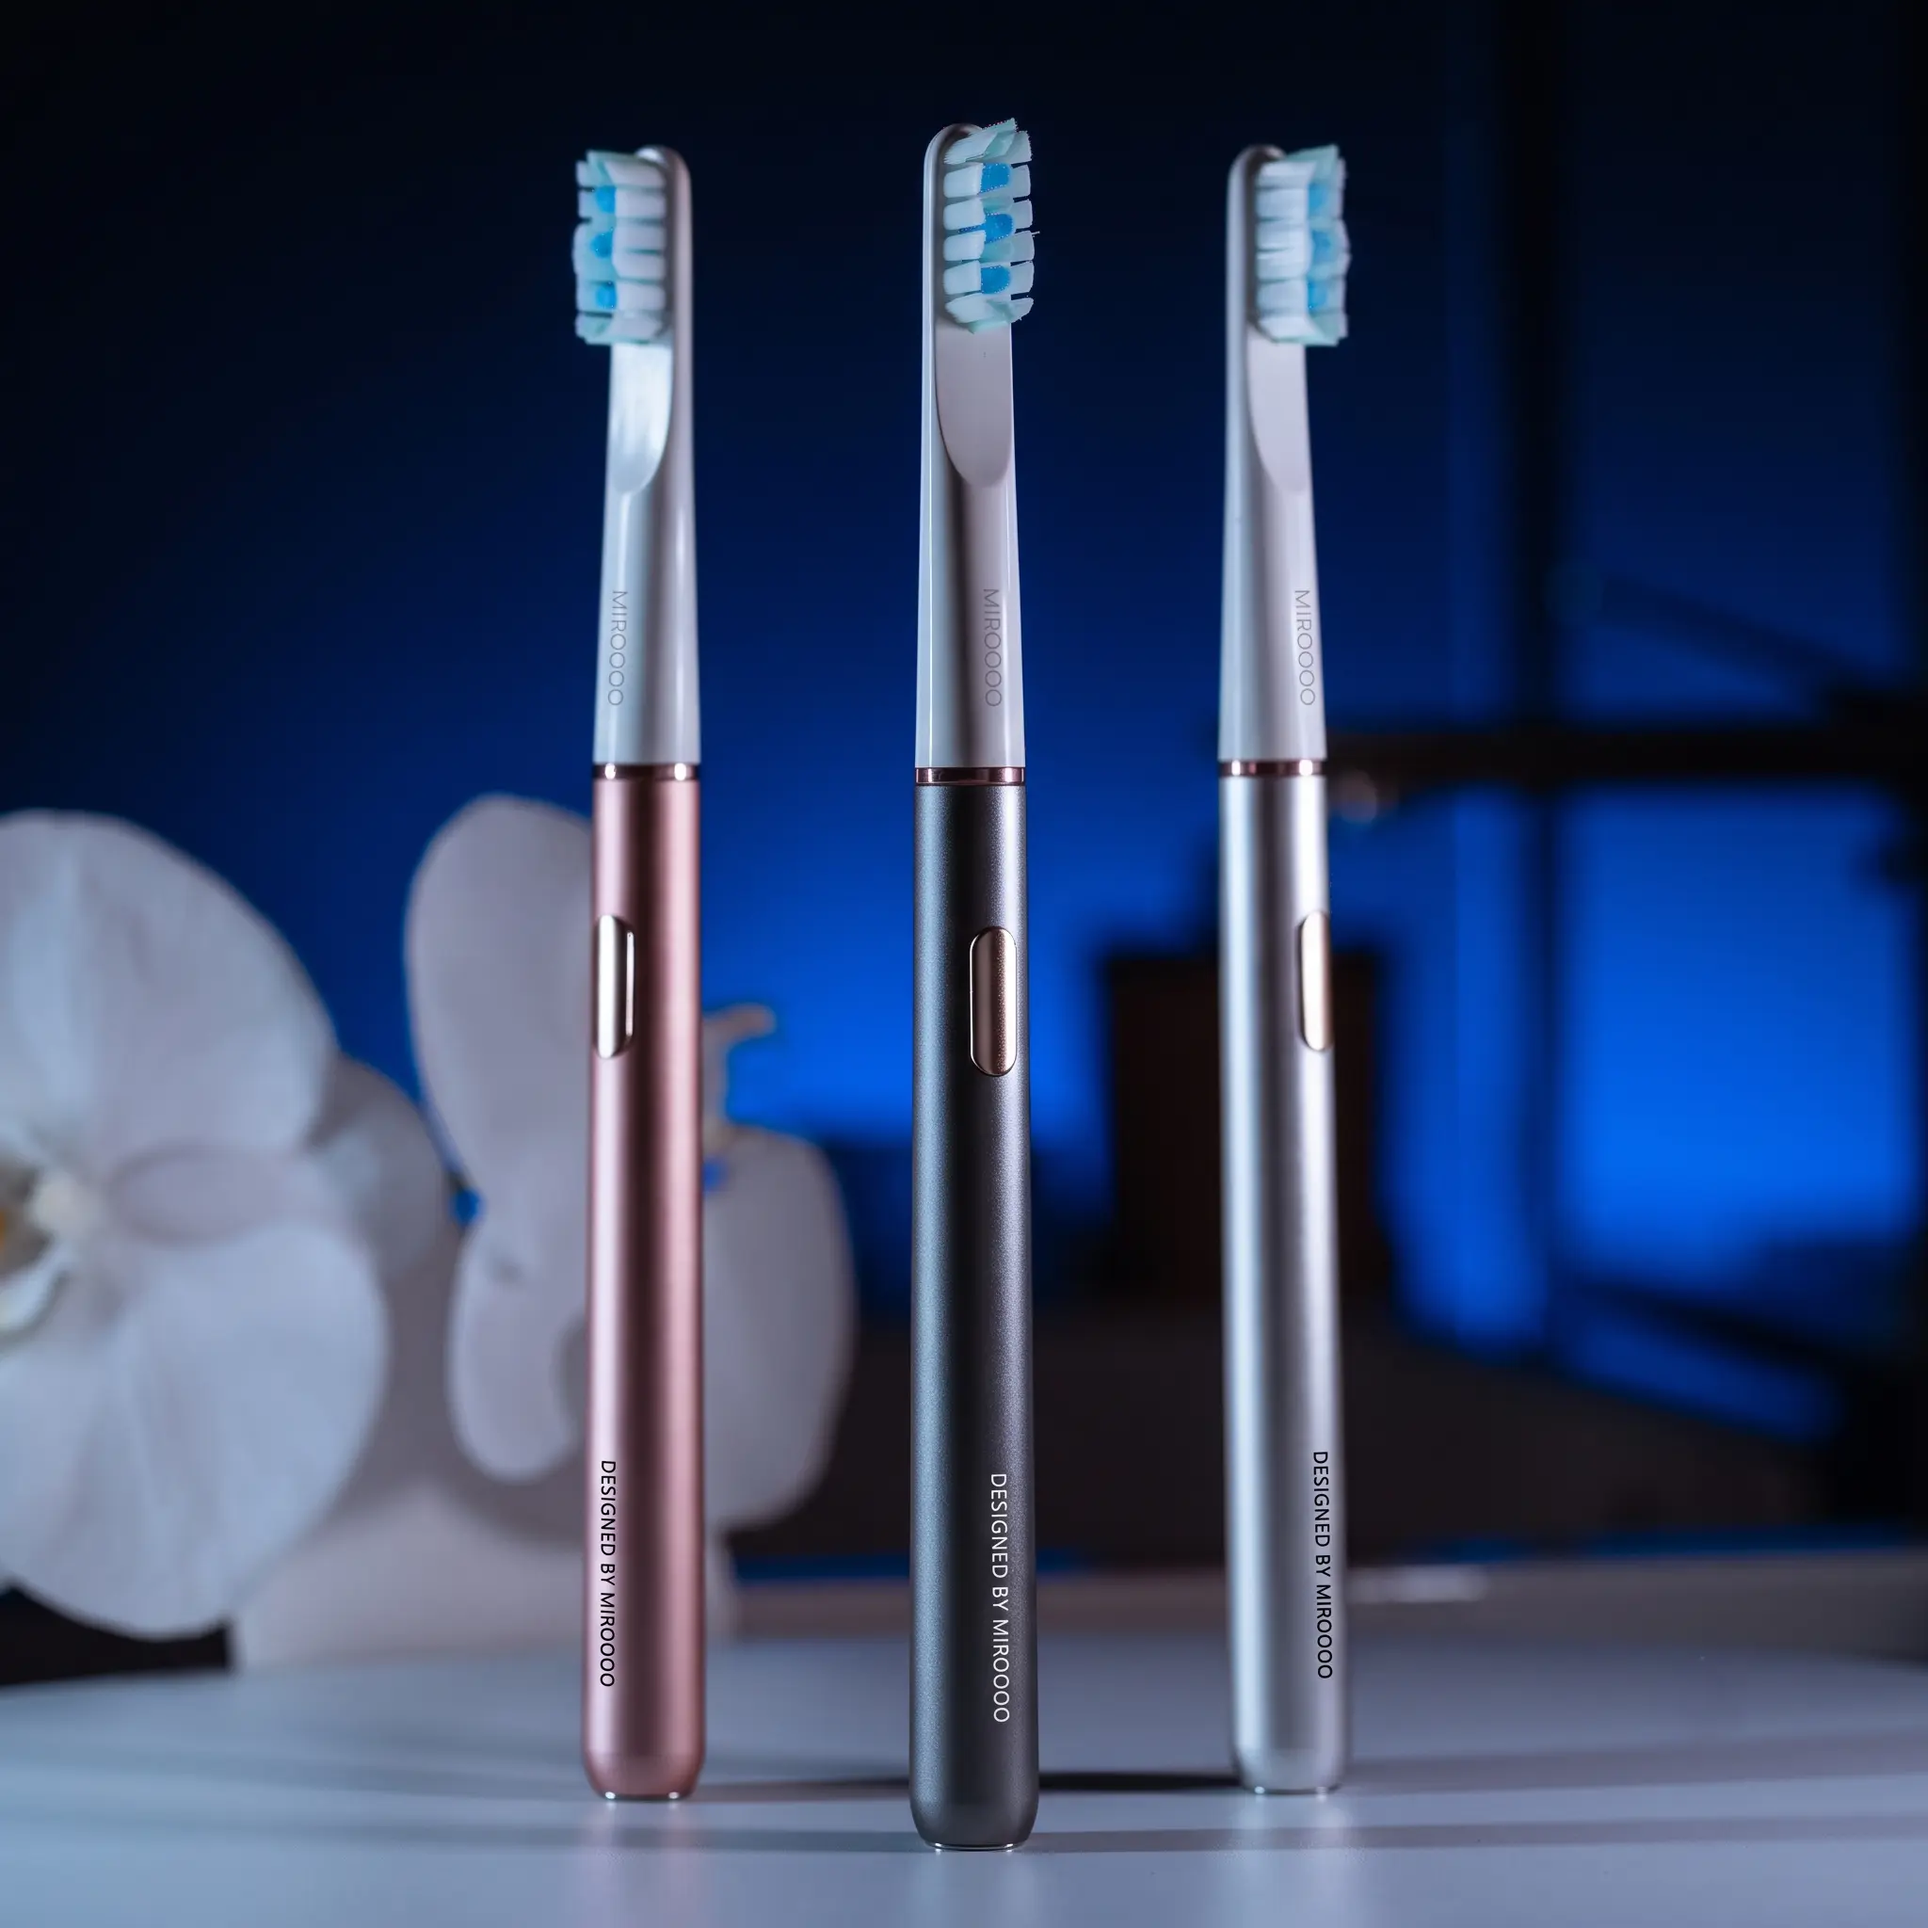
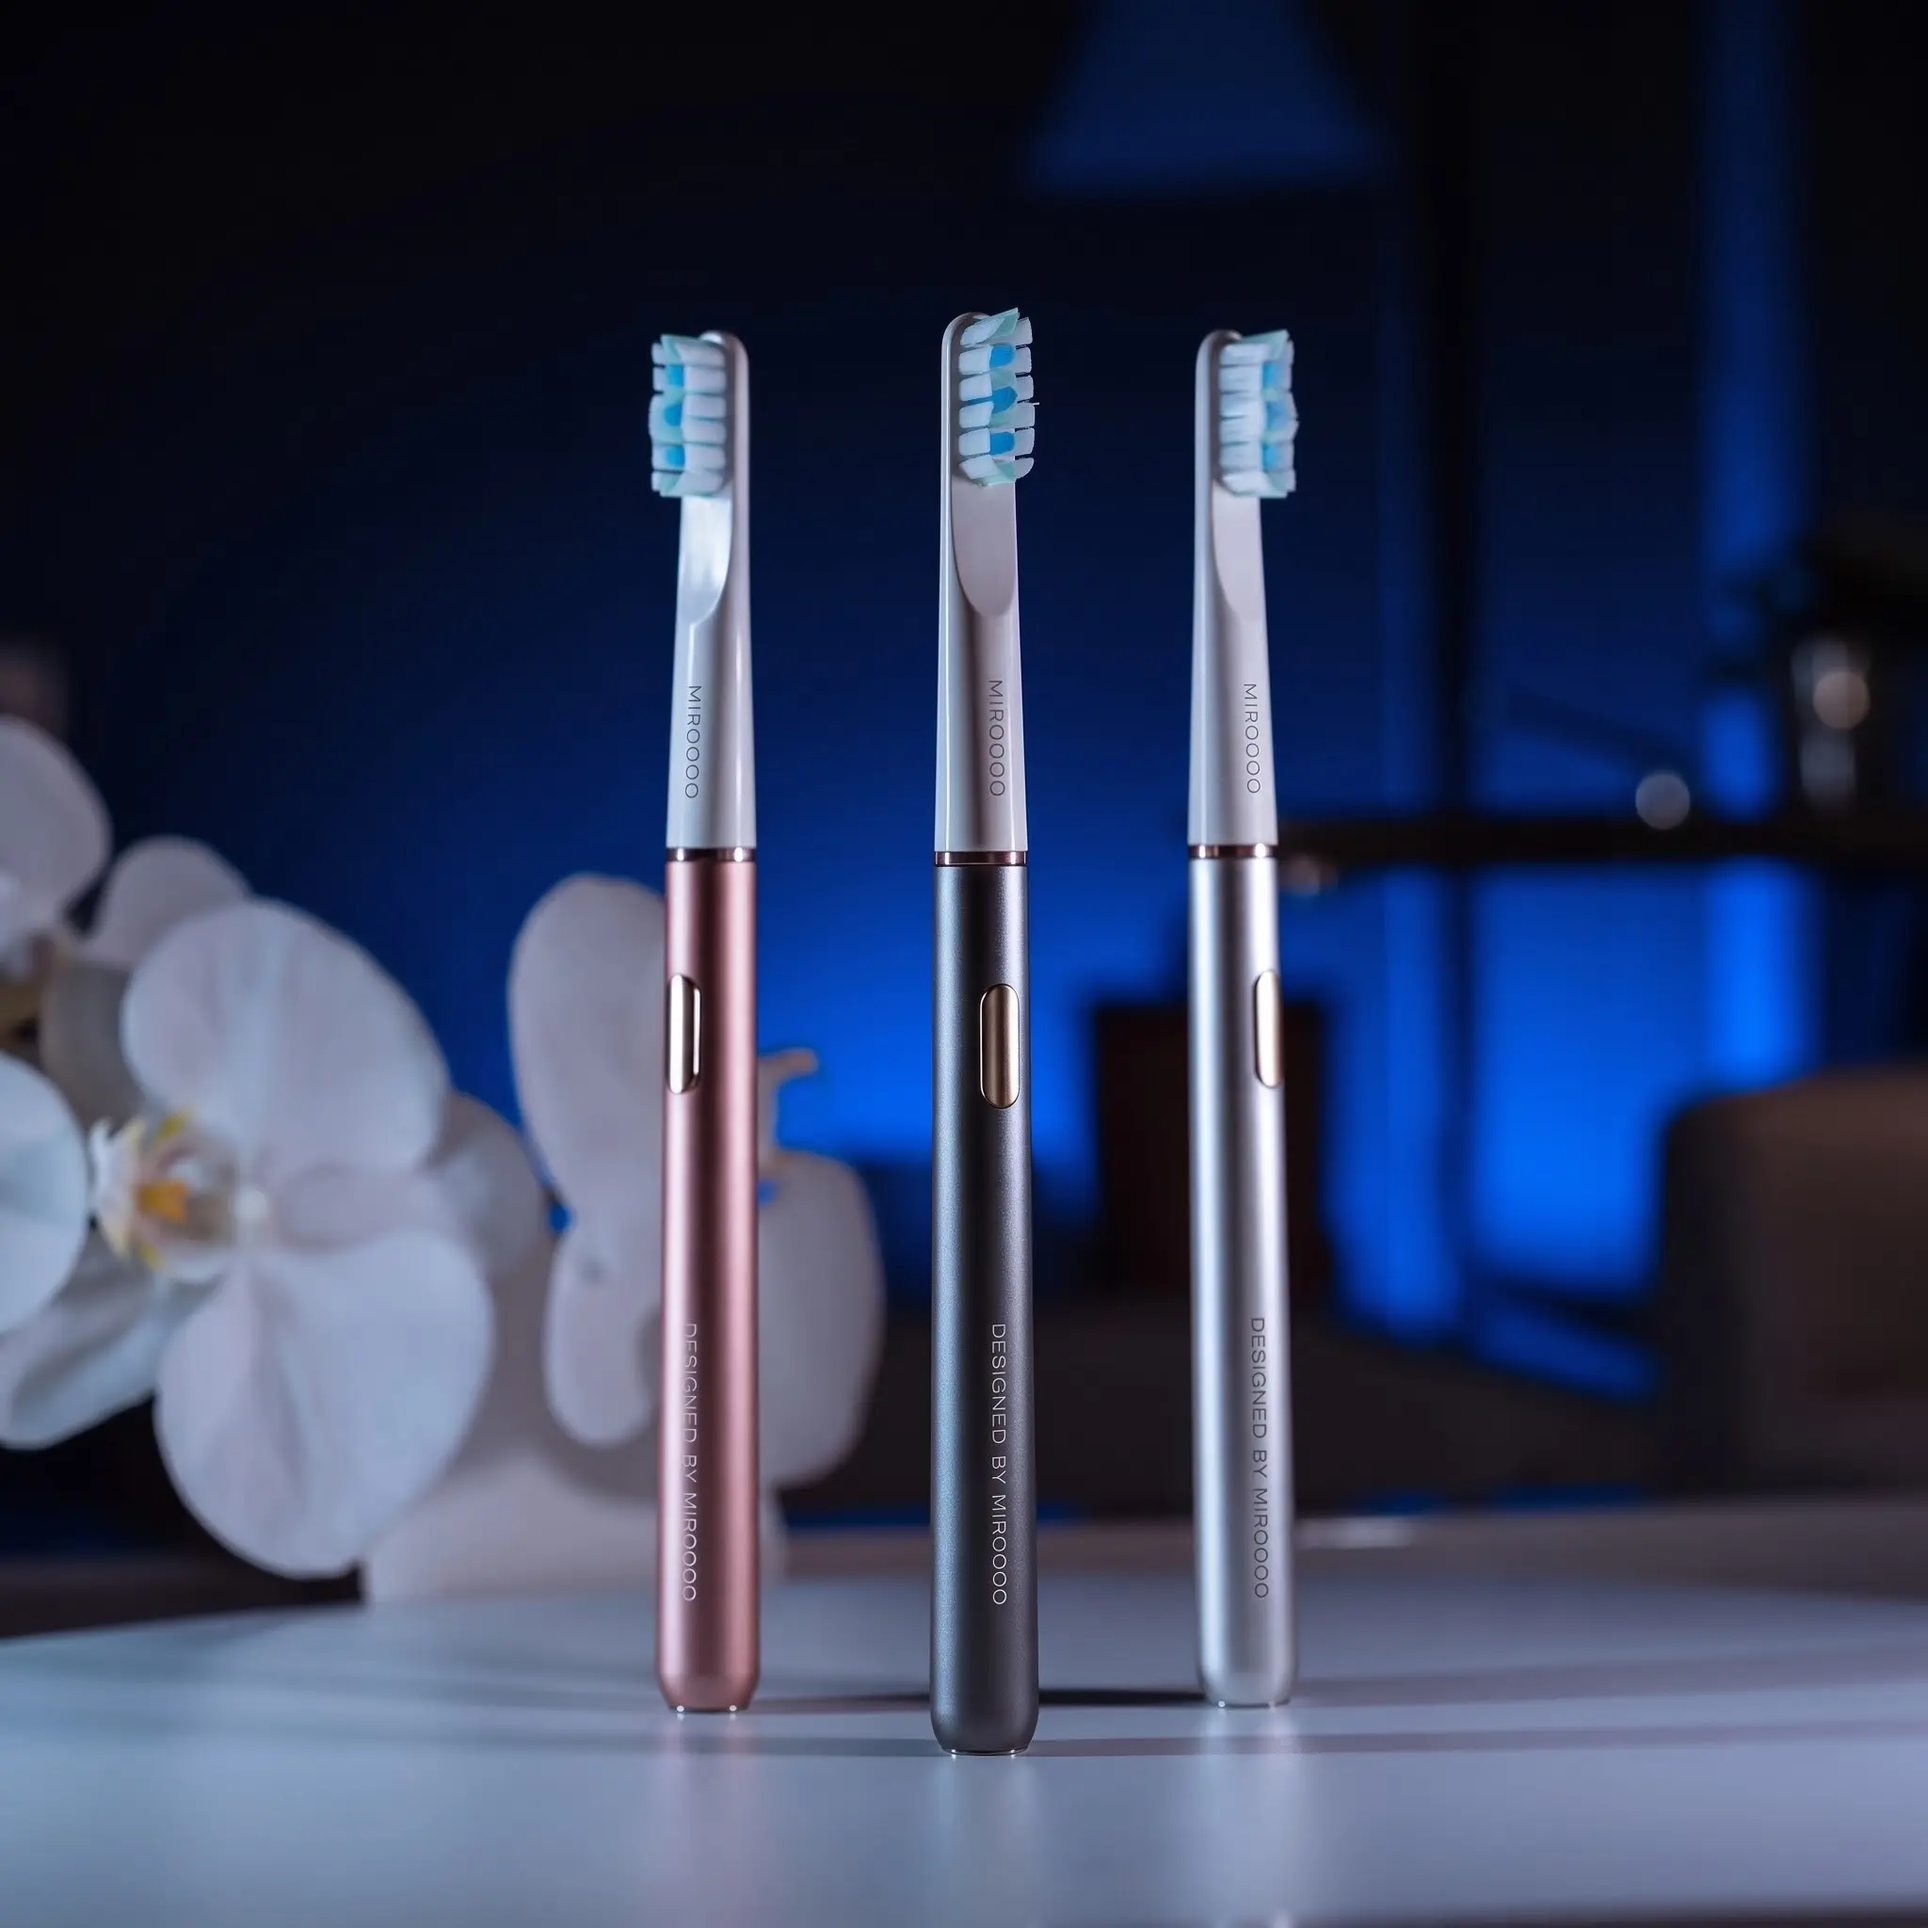
feat: update Miroooo Brush X #1 winner image preserving SEO asset name

diff --git a/CONTEXT.md b/CONTEXT.md
@@ -10811,6 +10811,47 @@ ext/image unconfigured host 500 error that was crashing the page.
 - **Commit, Push, & Deployment Status**:
   - Clean code committed and pushed to GitHub `origin/main` per explicit user instruction.
 
+---
+
+## Session Log: 16 October 2026 - Miroooo Brush X #1 Winner Image Asset Replacement (Preserving SEO Nomenclature)
+
+- **User Intent & Scope**:
+  - Replace the current #1 image of Miroooo Brush X on all brush pages with the user-provided image:
+    `E:\1st YEAR DTU\New folder\miroooo_images\edited with miroooo\Mirooo x compressed\284410181_1792123030456804.jpg.webp`.
+  - Maintain the exact current SEO/GEO standardized filename (`miroooo-brush-x-sonic-electric-toothbrush-rose-gold-space-grey-silver.webp`) to avoid broken links or unnecessary route/data refactors.
+  - Delete/replace the older image content in place.
+  - Verify across all toothbrush routes and pages in `trustpilotreview-shop`.
+  - If all checks pass cleanly, push clean code to GitHub `origin/main`.
+  - Strict scope boundary: Work strictly within `trustpilotreview-shop`. Do not touch LED masks, hair dryers, grounding sheets, pillows, or hearing aids pages. Zero modifications to outside repositories.
+
+- **Starting & Ending Git State**:
+  - Starting: `main` at `1f46a32` tracking `origin/main` (clean working tree).
+  - Ending: Clean working tree after commit and push to `origin/main`.
+
+- **Files Inspected, Created, & Modified**:
+  1. **New Image Content**:
[1 lines of base64/hex data omitted]
+     - Overwrote target assets in place (retaining established SEO filename):
+       - `apps/site/public/img/toothbrushes/miroooo-brush-x-sonic-electric-toothbrush-rose-gold-space-grey-silver.webp`
+       - `img/toothbrushes/miroooo-brush-x-sonic-electric-toothbrush-rose-gold-space-grey-silver.webp`
[1 lines of base64/hex data omitted]
+  2. **Codebase Referencing Consistency**:
+     - `apps/site/src/data/toothbrushes.ts` (`MIROOOO_X_DATASET.image`) -> `/img/toothbrushes/miroooo-brush-x-sonic-electric-toothbrush-rose-gold-space-grey-silver.webp`
+     - `apps/site/src/data/toothbrushGuides.ts` (`images.mirooooWinner`) -> `/img/toothbrushes/miroooo-brush-x-sonic-electric-toothbrush-rose-gold-space-grey-silver.webp`
+     - No orphan files or dangling references created.
+
+- **Verification Executed**:
+  1. `Get-FileHash`: Verified SHA-256 matches bit-for-bit between source and repo image assets.
+  2. `pnpm --filter @trustpilotreview/site typecheck`: Passed with 0 errors (`tsc --noEmit`).
+  3. `pnpm --filter @trustpilotreview/site lint`: Passed with 0 errors (`tsc --noEmit`).
+  4. `pnpm --filter @trustpilotreview/site build`: Next.js 16.2.11 Turbopack production build succeeded with Exit Code 0 (all 68/68 static and dynamic routes compiled and generated cleanly).
+  5. Built HTML DOM verification: Confirmed `miroooo-brush-x-sonic-electric-toothbrush-rose-gold-space-grey-silver.webp` rendered in `/best-electric-toothbrush-uk-2026.html`.
+  6. Scope boundary: Zero files outside electric toothbrush assets and repo documentation modified.
+
+- **Commit, Push, & Deployment Status**:
+  - Clean code committed and pushed to GitHub `origin/main` per explicit user instruction.
+
+
 
 
 
